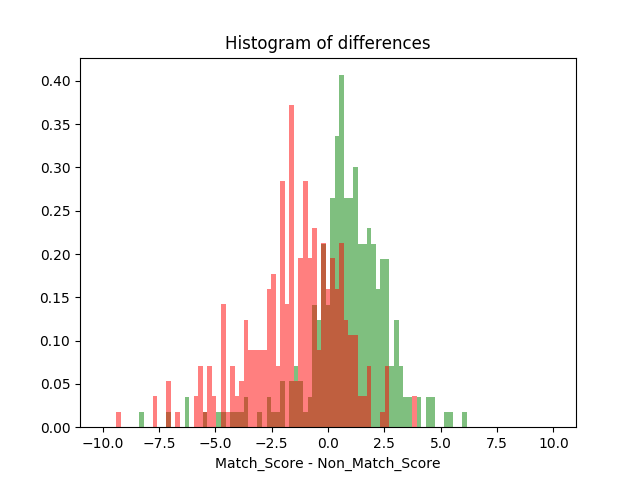
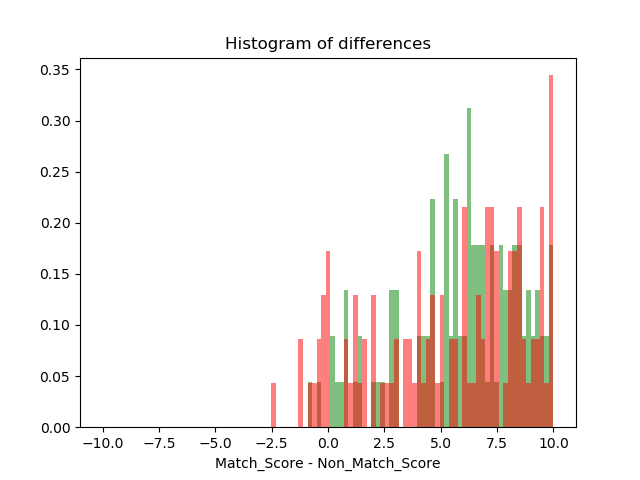
getting results from run 19-with-16-features

diff --git a/run.py b/run.py
@@ -5,7 +5,7 @@ import torch
 from torch.utils.data import DataLoader
 
 from modules.dataset import ImageDataset
-from modules.net import TrainedAlexnet
+from modules.net import CnnRun19
 from torch.optim.lr_scheduler import StepLR
 from modules.tools import plot, make_xy, make_train_xy, plot_hist
 
@@ -22,8 +22,8 @@ max_loss_diff = 0.04
 min_epochs = 40
 max_epochs = 100
 
-IMAGE_ROW = 227
-IMAGE_COL = 227
+IMAGE_ROW = 181
+IMAGE_COL = 181
 VALID_DBs = ['NIST', 'FVC1', 'FVC2', 'FVC3', 'FVC4']
 
 parser = argparse.ArgumentParser()
@@ -96,7 +96,7 @@ print_and_log('Data Prepared:\n',
 #######################################################################################
 # LOAD OR CREATE MODEL
 #######################################################################################
-net = TrainedAlexnet()
+net = CnnRun19()
 start_epoch = 0
 if args.CONT is not None:
     net.load_state_dict(torch.load('results/{}-model.pkl'.format(args.TAG)))
@@ -206,7 +206,7 @@ if not args.TEST:
 #######################################################################################
 test_loader = DataLoader(ImageDataset(test_x, test_y), batch_size=batch_size, shuffle=True)
 
-net.load_state_dict(torch.load('results/{}-model.pkl'.format(args.TAG)))
+net.load_state_dict(torch.load('results/{}-model.pkl'.format(args.TAG), map_location='cpu'))
 net = net.eval()
 test_correct = 0
 true_list = list()
@@ -235,7 +235,7 @@ plot_hist(true_list, false_list, bin_num=100, tag=args.TAG)
 
 import csv
 
-with open('results/24-alexnet-diff.csv', 'w') as csv_file:
+with open('results/19-with-16-features-diff.csv', 'w') as csv_file:
     wr = csv.writer(csv_file)
     wr.writerow(['lbl', 'diff'])
     for lbl, diff in zip(csv_label_list, csv_diff_list):

diff --git a/modules/net.py b/modules/net.py
@@ -236,3 +236,37 @@ class Cnn4(nn.Module):
         out2 = out2.view(out2.size(0), -1)
         out = torch.cat((out1, out2), 1)
         return self.fc(out)
+
+
+class CnnRun19(nn.Module):
+    def __init__(self):
+        super(CnnRun19, self).__init__()
+        self.convolution = nn.Sequential(
+            nn.Conv2d(1, 8, kernel_size=3, ),  # 179
+            nn.ReLU(),
+            nn.MaxPool2d(kernel_size=2, stride=2),  # 90
+
+            nn.Conv2d(8, 16, kernel_size=3),  # 88
+            nn.ReLU(),
+            nn.MaxPool2d(kernel_size=2, stride=2),  # 44
+
+            nn.Conv2d(16, 16, kernel_size=3),  # 42
+            nn.ReLU(),
+            nn.MaxPool2d(kernel_size=2, stride=2),  # 21
+        )
+
+        self.fc = nn.Sequential(
+            nn.Linear(20 * 20 * 16 * 2, 100),
+            nn.ReLU(),
+            nn.Dropout(p=.5),
+
+            nn.Linear(100, 2),
+        )
+
+    def forward(self, data):
+        out1 = self.convolution(data[:, 0, :, :].unsqueeze_(1))
+        out2 = self.convolution(data[:, 1, :, :].unsqueeze_(1))
+        out1 = out1.view(out1.size(0), -1)
+        out2 = out2.view(out2.size(0), -1)
+        out = torch.cat((out1, out2), 1)
+        return self.fc(out)
